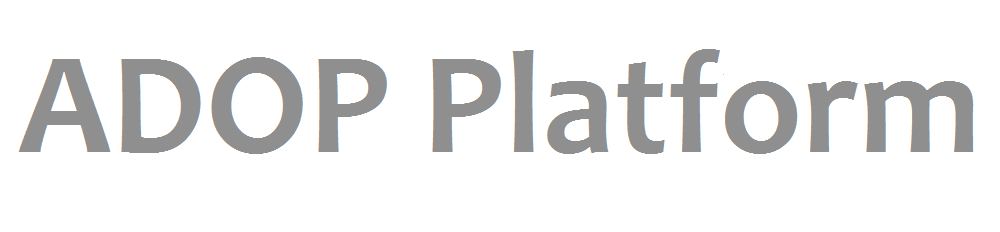
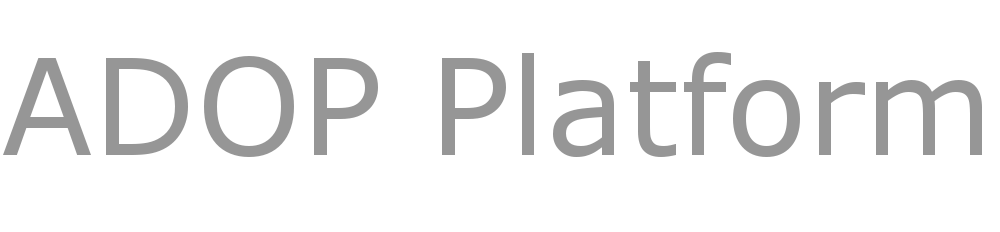
slight modifications

Changed region(s): [[0.434, 0.2112, 0.992, 0.694], [0.0, 0.2414, 0.403, 0.694]]

diff --git a/UI/src/app/css/variables.less b/UI/src/app/css/variables.less
@@ -34,17 +34,17 @@
 @dash-btn-secondary-color:          lighten(@text-color, 20%);
 
 // logo
-@dash-header-logo-url: '@{dash-image-path}hygieia_b.png';
+@dash-header-logo-url: '@{dash-image-path}adop.png';
 @dash-header-logo-width:            135px;
 @dash-header-logo-height:           35px;
 @dash-header-logo-left:             10px;
 @dash-header-logo-right:            10px;
 @dash-header-logo-top:              8px;
 
-@dash-header-logo-inverse-url: '@{dash-image-path}adop.png';
+@dash-header-logo-inverse-url: '@{dash-image-path}hygieia_w.png';
 
 // logo for smaller screens
-@dash-header-icon-url: '@{dash-image-path}hygieia_b.png';
+@dash-header-icon-url: '@{dash-image-path}adop.png';
 @dash-header-icon-width:            41px;
 @dash-header-icon-height:           48px;
 @dash-header-icon-left:             60px;
